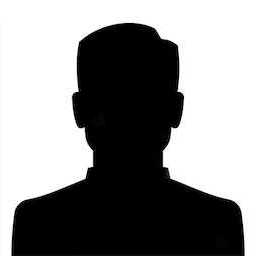
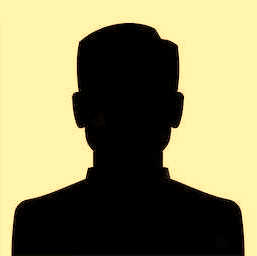
Team imgs improved, separation divs added in the gallery

diff --git a/index.html b/index.html
@@ -21,10 +21,20 @@
         </h2>
     </header>
 
+    <!-- workbook -->
+    <section>
+        <div class="caroucontain">
+            <h3>Workbook</h3>
+            <div id="workbook"></div>
+        </div>
+    </section>
+
+    <div class="separation"></div>
+
     <!-- team -->
     <section>
         <div class="caroucontain">
-            <h3>team</h3>
+            <h3 id="titreTeam">team</h3>
             <br>
             <div id="team">
                 <div id="left_arrow"></div>
@@ -43,15 +53,7 @@
                 <div id="text2"></div>
             </div>
     </section>
-    <br><br>
 
-    <!-- workbook -->
-    <section>
-        <div class="caroucontain">
-            <h3>Workbook</h3>
-            <div id="workbook"></div>
-        </div>
-    </section>
 
 
 

diff --git a/style.css b/style.css
@@ -30,14 +30,29 @@ h2{
     color: rgb(202, 202, 180);
 }
 h3{
-    margin-top: 50px;
-    margin-bottom: 30px;
+    margin-top: 4%;
+    margin-bottom: 4%;
     font-family: 'h3', sans-serif;
     font-size: calc(0.5rem + 1.2vw);
     color: beige;
+}
+section{
+    margin-bottom: 6%;
 }
 .caroucontain{
     display: flex;
     flex-direction: column;
     align-items: center;
+}
+
+#titreTeam{
+    margin-bottom: 3%;
+}
+
+.separation{
+    width: 50vw;
+    height: 1px;
+    background-color: rgba(245, 245, 220, 0.374);
+    margin-top: 50px;
+    margin: auto;
 }
